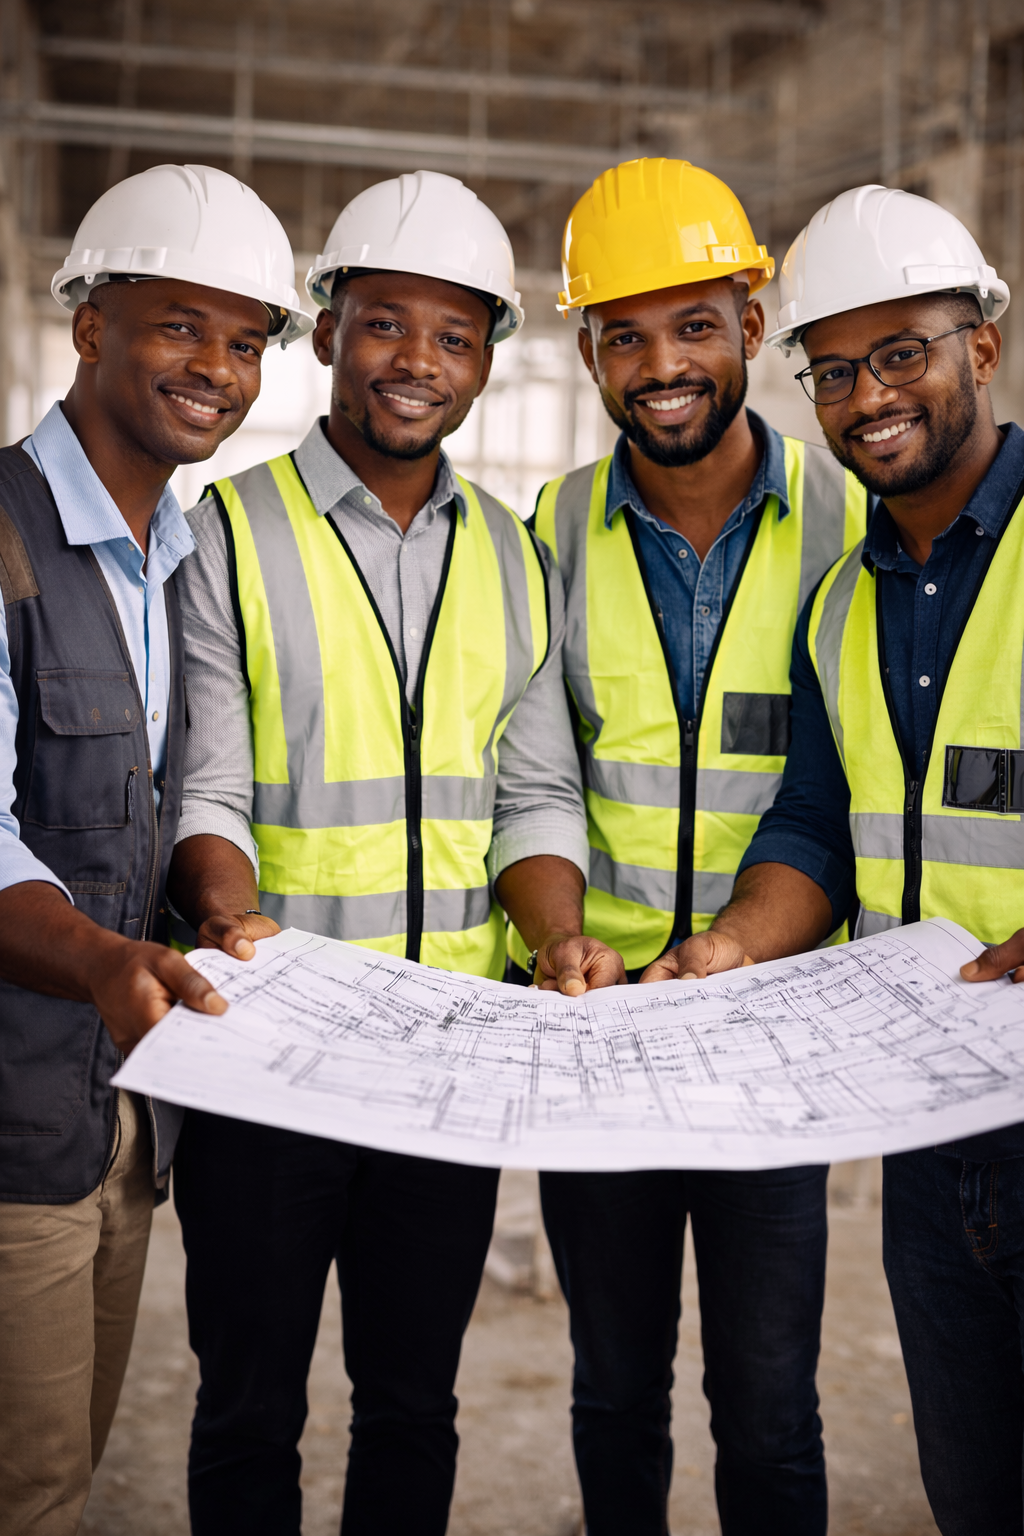
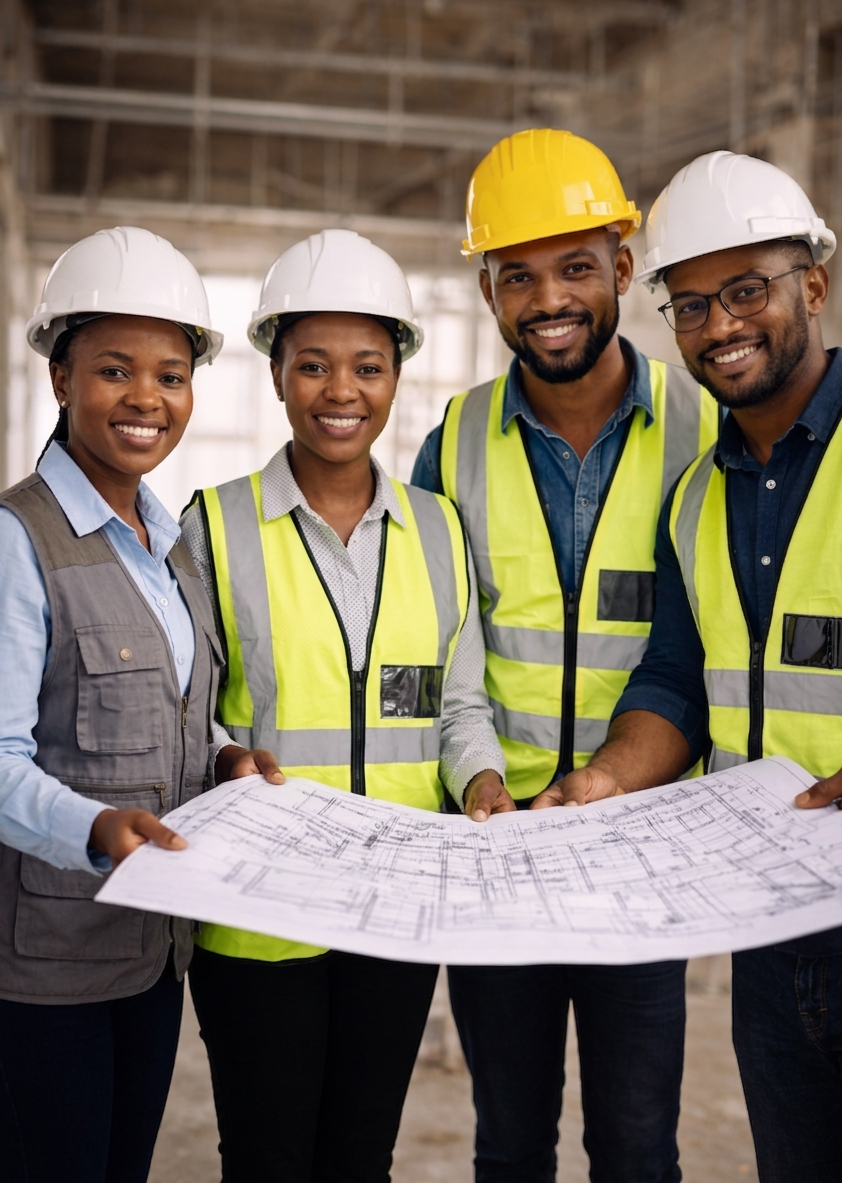
Add files via upload

diff --git a/css/style.css b/css/style.css
@@ -42,7 +42,7 @@
 }
 
 *{margin:0;padding:0;box-sizing:border-box}
-html{scroll-behavior:smooth;-webkit-font-smoothing:antialiased;text-rendering:optimizeLegibility}
+html{scroll-behavior:smooth;-webkit-font-smoothing:antialiased;text-rendering:optimizeLegibility;overflow-x:hidden}
 body{
   font-family:var(--sans);
   background:var(--paper);
@@ -877,7 +877,7 @@ section{position:relative;z-index:2}
   .hstat .n{font-size:1.85rem}
   .hstat .lab{font-size:10px}
   .nav-logo .lt span{display:none}
-  .sec-idx{font-size:11px}
+  .sec-idx{font-size:11px;white-space:normal;border-radius:18px;padding:8px 14px;line-height:1.5;max-width:100%;word-break:break-word}
   .foot-grid{grid-template-columns:1fr 1fr}
   .foot-brand{grid-column:span 2}
   .foot-col ul a{font-size:.9rem}